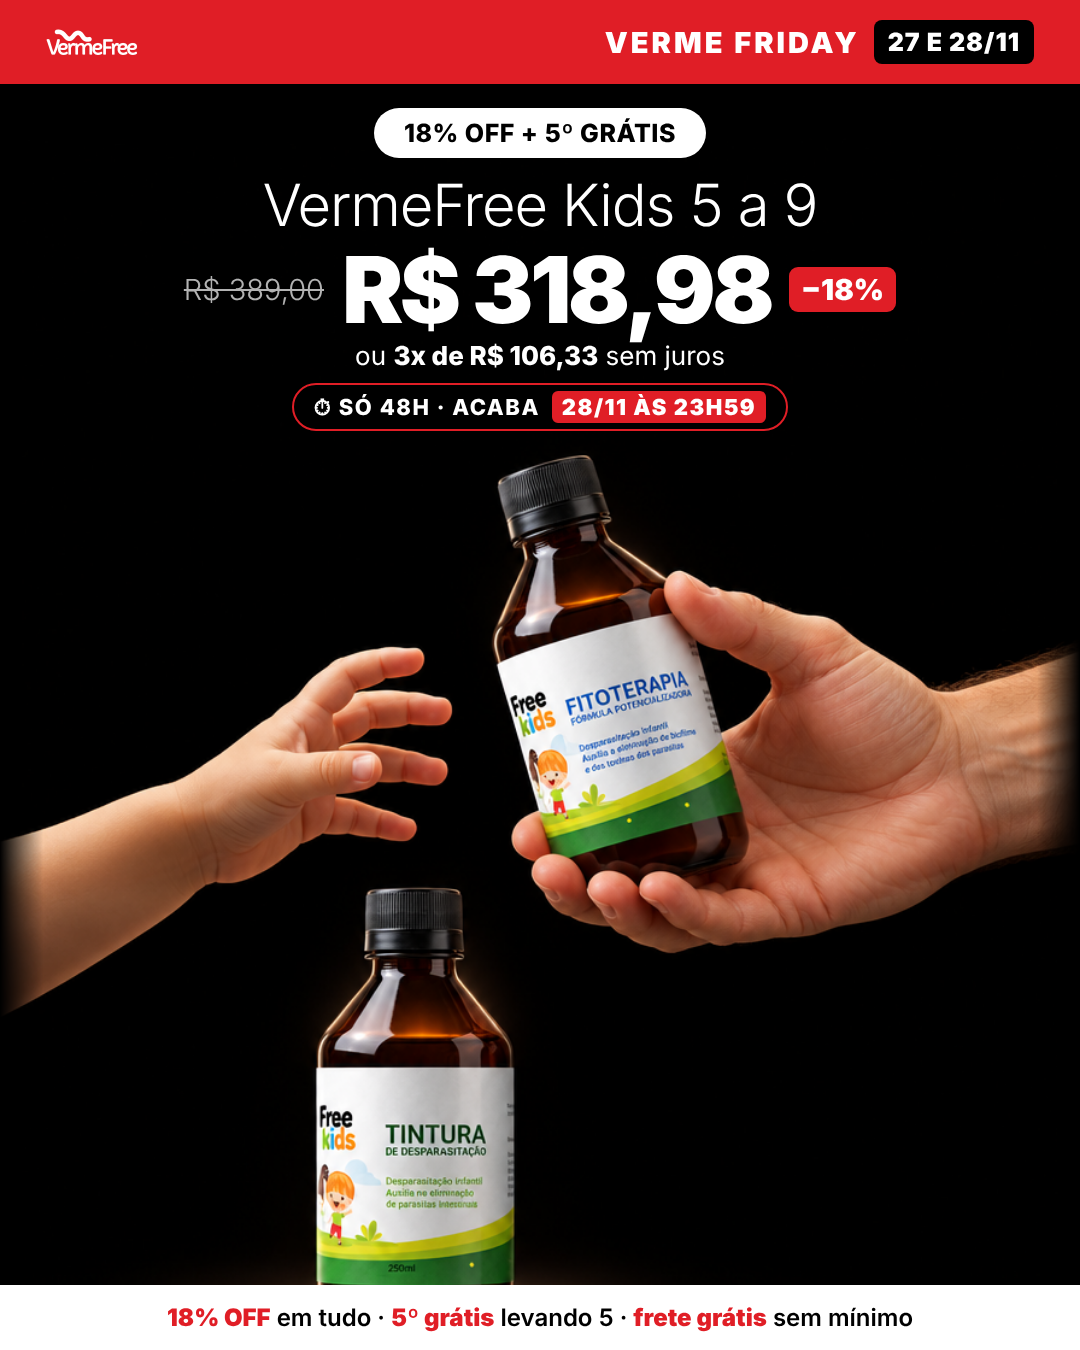
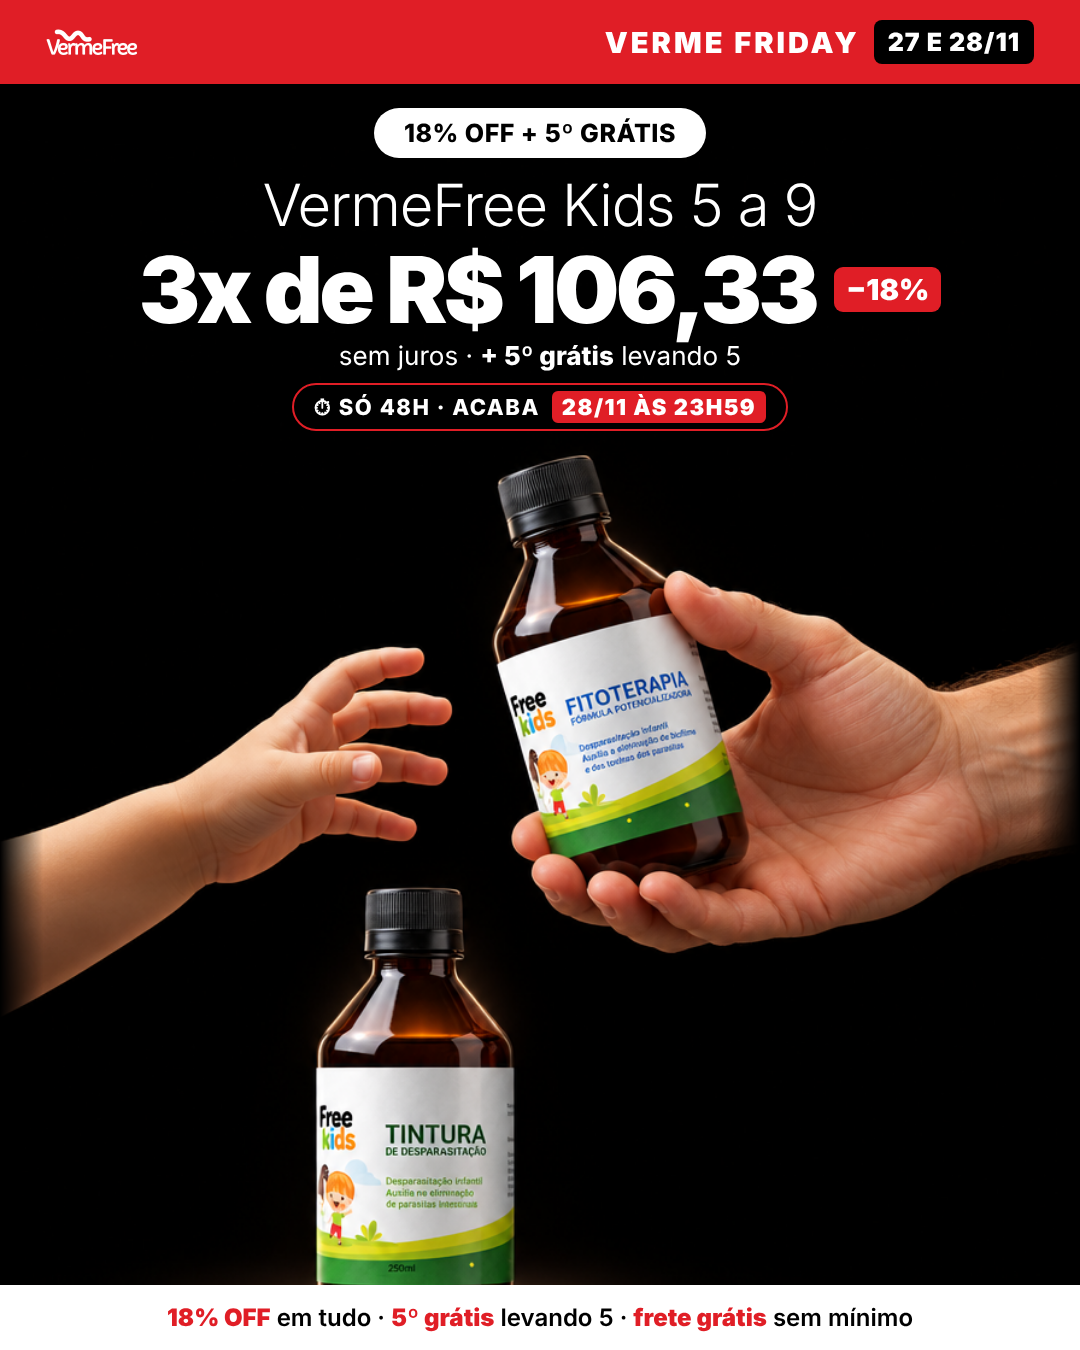
Verme Friday: tira preço total, parcela 3x sem juros (v5, neon, sale)
Claude-Session: https://claude.ai/code/session_01UR7LFtJwBJjiUEuKDUpttV

Changed region(s): [[0.1222, 0.1867, 0.8861, 0.28]]

diff --git a/novembro-pedro/criativos/verme-friday/copy.md b/novembro-pedro/criativos/verme-friday/copy.md
@@ -1,5 +1,7 @@
 # Verme Friday · 10 estáticos de venda
 
+**17/11 · sem preço total (nova recomendação):** nas versões que estão no Drive (v5 + 9:16, neon e sale) as peças de produto mostram só a parcela "3x de R$ … sem juros"; a peça dos 5 Adultos virou "5 por 4" / "Pague 4" + 18% OFF em cada um. Mudaram: v5 03, 04, 05, 06, 09 · neon 03, 04, 05, 07, 09 · sale 03, 04, 05, 07, 09. Prova: prova-sem-preco-*.jpg.
+
 **v7 "sale" (16/11, 2ª referência do Pedro):** mais 10 peças, 4:5 + 9:16. Bloco preto em cima: "VERME FRIDAY" branco, palavra-chave em vermelho e número em branco, linha fina de apoio; embaixo foto de estúdio (parede vermelha, mesa branca, produto real, planta) com duas fitas brancas "Verme Friday · 18% OFF · 5º grátis" cruzando a divisa. Cenas em cenas7/ (Higgsfield com as fotos reais). Mensagens iguais às da v6 (18% OFF, leve 5 pague 4, Kids 2 a 4, Kids 5 a 9, Kit Família, frete grátis, Adulto, só 48h, 5 Adultos, sorteio). Gerador: gerar7-sale.cjs · png7/ · provas prova7-sale-*.png.
 **v6 neon aprovada 16/11** e subida no Drive (07 › [2] Comunicação & Criativos), 20 PNGs.
 
